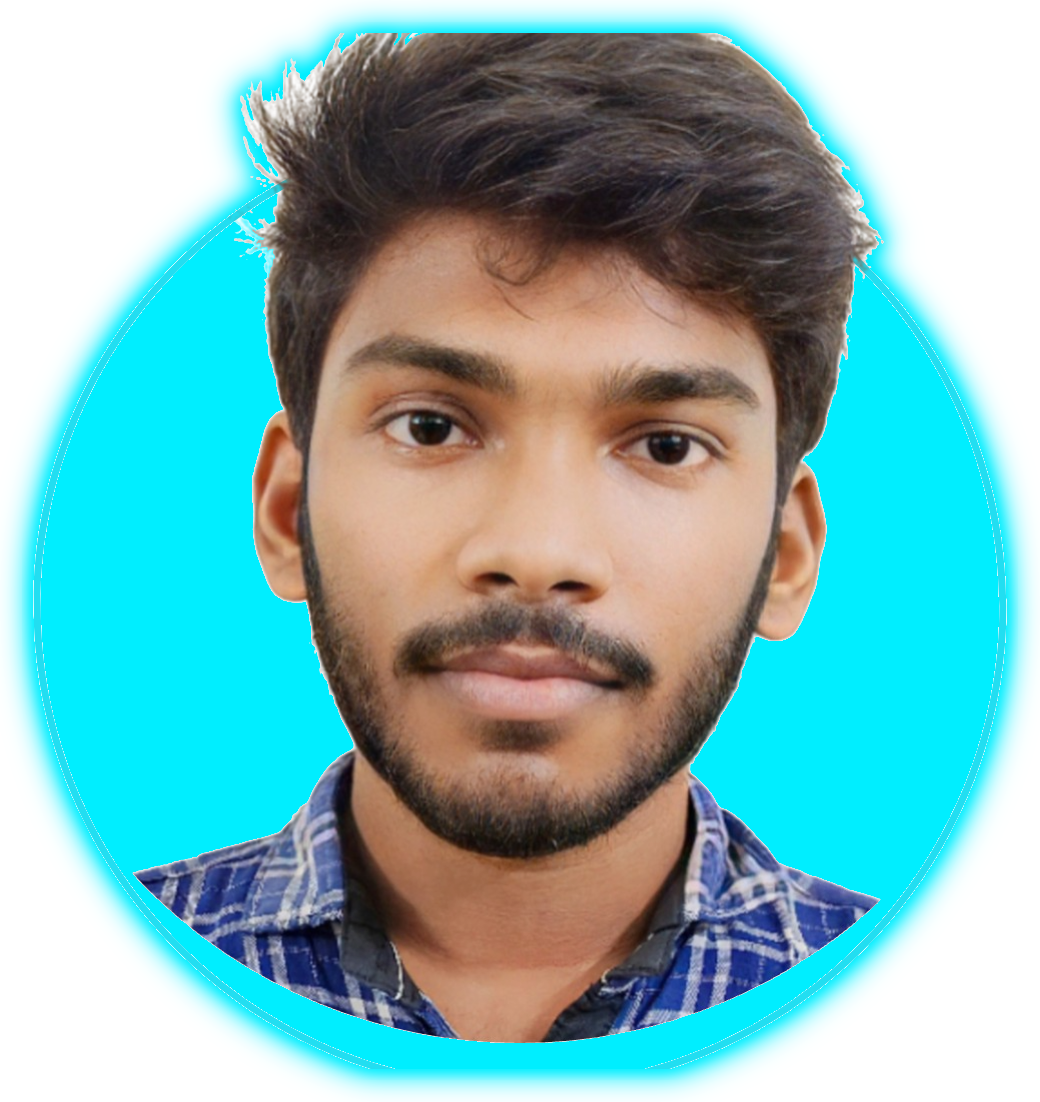
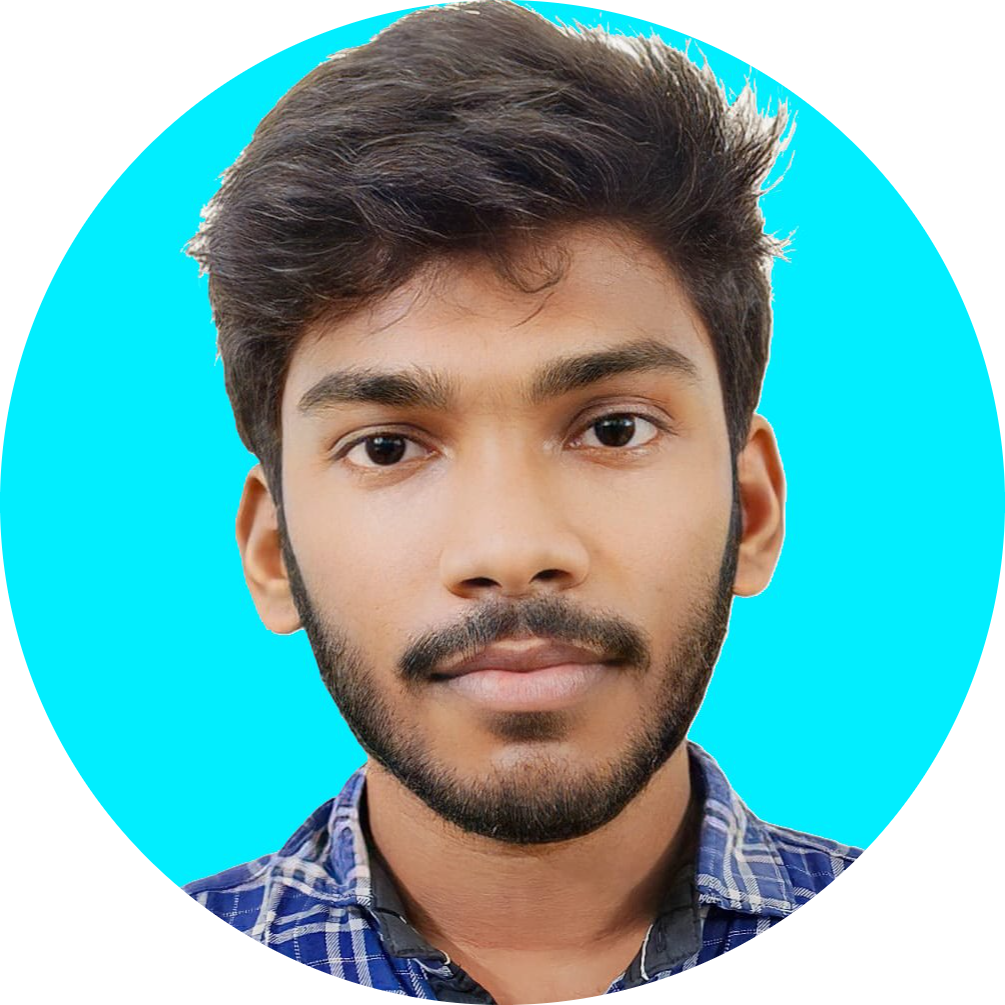
modified:   images/photo.png 	modified:   index.html modified:   javascript/script.js 	modified:   style.css

diff --git a/index.html b/index.html
@@ -2,182 +2,191 @@
 <html lang="en">
 
 <head>
-    <meta charset="UTF-8">
-    <meta name="viewport" content="width=device-width, initial-scale=1.0">
-    <title>Document</title>
-    <link rel="stylesheet" href="style.css">
-    <link href='https://unpkg.com/boxicons@2.1.4/css/boxicons.min.css' rel='stylesheet'>
+  <meta charset="UTF-8">
+  <meta name="viewport" content="width=device-width, initial-scale=1.0">
+  <title>Document</title>
+  <link rel="stylesheet" href="style.css">
+  <link href='https://unpkg.com/boxicons@2.1.4/css/boxicons.min.css' rel='stylesheet'>
 </head>
 
 <body>
+  <nav>
     <header class="header">
-        <a href="#" class="logo">Ganesh's Portfolio</a>
-        <i class='bx bx-menu' id="menu-icon"></i>
-        <nav class="navbar">
-            <a href="#home" class="active">Home</a>
-            <a href="#aboutme">About</a>
-            <a href="#skills">Skills</a>
-            <a href="#contact">Contact</a>
-        </nav>
+
+      <a href="#" class="logo">Ganesh's Portfolio</a>
+      <i class='bx bx-menu' id="menu-icon"></i>
+      <nav class="navbar">
+        <a href="#home" class="active">Home</a>
+        <a href="#aboutme">About</a>
+        <a href="#skills">Skills</a>
+        <a href="#contact">Contact</a>
+      </nav>
 
     </header>
+  </nav>
+  <section class="home" id="home">
+    <div id="particles-js"></div>
 
-    <section class="home" id="home">
-        <div id="particles-js"></div>
-    
-        <div class="content">
-        <h2>Hi There,<br/> I'm <span>Ganesh</span></h2>
-        <p>i am into <h1 class="typing-text"><span ></span></h1></p>
-        <a href="#aboutme" class="btn"><span>About Me</span>
-          <i class="fas fa-arrow-circle-down"></i>
-        </a>
-        <div class="socials">
-            <ul class="social-icons">
-              <li><a class="linkedin" aria-label="LinkedIn" href="https://www.linkedin.com/in/ganesh-kotikalapudi-b28606261/" target="_blank"><i class='bx bxl-linkedin' ></i></a></li> 
-              <li><a class="github" aria-label="GitHub" href="https://github.com/ganesh" target="_blank"><i class='bx bxl-github' ></i></a></li>
-              <li><a class="" aria-label="Twitter" href="https://www.facebook.com/badhraganesh.kotikalapudi" target="_blank"><i class='bx bxl-facebook' ></i></a></li>
-              
-              <li><a class="instagram" aria-label="Instagram" href="https://www.instagram.com/l0g_iin"><i class='bx bxl-instagram' ></i></a></li>
-             
-            </ul>
-          </div>
-        </div>
-    <div class="image">
-        <img draggable="false" class="tilt" src="./images/photo.png" alt="">
+    <div class="content">
+      <h2>Hi There,<br /> I'm <span>Ganesh</span></h2>
+      <p>i am into
+      <h1 class="typing-text"><span></span></h1>
+      </p>
+      <a href="#aboutme" class="btn"><span>About Me</span>
+        <i class="fas fa-arrow-circle-down"></i>
+      </a>
+      <div class="socials">
+        <ul class="social-icons">
+          <li><a class="linkedin" aria-label="LinkedIn"
+              href="https://www.linkedin.com/in/ganesh-kotikalapudi-b28606261/" target="_blank"><i
+                class='bx bxl-linkedin'></i></a></li>
+          <li><a class="github" aria-label="GitHub" href="https://github.com/ganesh" target="_blank"><i
+                class='bx bxl-github'></i></a></li>
+          <li><a class="" aria-label="Twitter" href="https://www.facebook.com/badhraganesh.kotikalapudi"
+              target="_blank"><i class='bx bxl-facebook'></i></a></li>
+
+          <li><a class="instagram" aria-label="Instagram" href="https://www.instagram.com/l0g_iin"><i
+                class='bx bxl-instagram'></i></a></li>
+
+        </ul>
+      </div>
     </div>
-    </section>
- 
+    <div id="image">
+      <img draggable="false" onclick=change() class="tilt" draggable="true" src="./images/photo.png" alt="">
+    </div>
+  </section>
 
 
-    <section class="aboutme" id="aboutme">
-        <div class="about-img"><img src="/images/aboutimg.png" alt=""></div>
-        <div class="about-content">
-            <h2 class="heading">About <span>Me</span> </h2>
 
-            <p>
-                I am a learning developer based in Andhra pradesh, India. I am an currently CSE undergraduate from SRM
-                institute of science and engineering and technology in chennai. I am very passionate about improving my
-                coding skills & developing applications & websites. I build WebApps and Websites using MERN Stack.
-                Working for myself to improve my skills. Love to build clones and useful websites.
-                <br>
+  <section class="aboutme" id="aboutme">
+    <div class="about-img"><img src="/images/aboutimg.png" alt=""></div>
+    <div class="about-content">
+      <h2 class="heading">About <span>Me</span> </h2>
 
-
-            </p>
-            <a href="" class="btn">Read more</a>
-        </div>
-
-    </section>
-
-    <section class="skills" id="skills">
-
-        <h2 class="heading"><i class='bx bx-laptop'></i>Skills & <span>Abilities</span></h2>
-
-        <div class="container">
-
-            <div class="box"> <img src="/images/c++.png" alt=""><span>C++</span></div>
-            <div class="box"> <img src="/images/python.png" alt=""><span>Python</span></div>
-            <div class="box"> <img src="/images/java.png" alt=""><span>java</span></div>
-            <div class="box"> <img src="/images/js.png" alt=""><span>java script</span></div>
-            <div class="box"> <img src="/images/css.png" alt=""><span>CSS</span></div>
-            <div class="box"> <img src="/images/html.png" alt=""><span>html</span></div>
-            <div class="box"> <img src="/images/mysql.png" alt=""><span>MySQL</span></div>
-            <div class="box"> <img src="/images/reactjs.png" alt=""><span>Reactjs</span></div>
-            <div class="box"> <img src="/images/bootstrap.png" alt=""><span>Bootstrap</span></div>
+      <p>
+        I am a learning developer based in Andhra pradesh, India. I am an currently CSE undergraduate from SRM
+        institute of science and engineering and technology in chennai. I am very passionate about improving my
+        coding skills & developing applications & websites. I build WebApps and Websites using MERN Stack.
+        Working for myself to improve my skills. Love to build clones and useful websites.
+        <br>
 
 
-        </div>
-    </section>
+      </p>
+      <a href="" class="btn">Read more</a>
+    </div>
 
-    <section class="education" id="education">
+  </section>
 
-        <h1 class="heading"><i class="fas fa-graduation-cap"></i> My <span>Education</span></h1>
+  <section class="skills" id="skills">
 
-        <p class="qoute">My Education and schooling.</p>
+    <h2 class="heading"><i class='bx bx-laptop'></i>Skills & <span>Abilities</span></h2>
 
-        <div class="box-container">
+    <div class="container">
 
-            <div class="box">
-                <div class="image">
-                    <img draggable="false" src="/images/SRM.png" alt="">
-                </div>
-                <div class="content">
-                    <h3> Bachelor of Technology</h3>
-                    <p>SRM institute of science and Technology</p>
-                    <h4>2021-2025 | Pursuing
-                        Current CGPA:9.63/10
-                    </h4>
-                </div>
-            </div>
+      <div class="box"> <img src="/images/c++.png" alt=""><span>C++</span></div>
+      <div class="box"> <img src="/images/python.png" alt=""><span>Python</span></div>
+      <div class="box"> <img src="/images/java.png" alt=""><span>java</span></div>
+      <div class="box"> <img src="/images/js.png" alt=""><span>java script</span></div>
+      <div class="box"> <img src="/images/css.png" alt=""><span>CSS</span></div>
+      <div class="box"> <img src="/images/html.png" alt=""><span>html</span></div>
+      <div class="box"> <img src="/images/mysql.png" alt=""><span>MySQL</span></div>
+      <div class="box"> <img src="/images/reactjs.png" alt=""><span>Reactjs</span></div>
+      <div class="box"> <img src="/images/bootstrap.png" alt=""><span>Bootstrap</span></div>
 
-            <div class="box">
-                <div class="image">
-                    <img draggable="false" src="/images/sasi.png" alt="">
-                </div>
-                <div class="content">
-                    <h3>Intermediate</h3>
-                    <p>SASI junior college</p>
-                    <h4>2019-2021| Completed
-                        MARKS:963/1000
-                    </h4>
-                </div>
-            </div>
 
-        </div>
-        <section class="contact" id="contact">
-  
-            <h2 class="heading"><i class="fas fa-headset"></i> Get in <span>Touch</span></h2>
-          
-            <div class="container">
-              <div class="content">
-                <div class="image-box">
-                  <img draggable="false" src="./images/contact.png" alt="">
-                </div>
-              <form id="contact-form">
-                
-                <div class="form-group">
-                  <div class="field">
-                    <input type="text" name="name" placeholder="Name" required>
-                    <i class='fas fa-user'></i>
-                  </div>
-                  <div class="field">
-                    <input type="text" name="email" placeholder="Email" required>
-                    <i class='fas fa-envelope'></i>
-                  </div>
-                  <div class="field">
-                    <input type="text" name="phone" placeholder="Phone">
-                    <i class='fas fa-phone-alt'></i>
-                  </div>
-                  <div class="message">
-                  <textarea placeholder="Message" name="message" required></textarea>
-                  <i class="fas fa-comment-dots"></i>
-                  </div>
-                  </div>
-                <div class="button-area">
-                  <button type="submit">
-                    Submit <i  class='bx bxs-paper-plane'></i></button>
-                </div>
-              </form>
-            </div>
-            </div>
-          </section>
-        <a href="#home" aria-label="ScrollTop" class="fas fa-angle-up" id="scroll-top"></a>
-    </section>
-    <!-- footer section starts -->
-<section class="footer">
+    </div>
+  </section>
+
+  <section class="education" id="education">
+
+    <h1 class="heading"><i class="fas fa-graduation-cap"></i> My <span>Education</span></h1>
+
+    <p class="qoute">My Education and schooling.</p>
 
     <div class="box-container">
-  
-        <div class="box">
-            <h3>Ganesh's Portfolio</h3>
-            <p>Thank you for visiting my personal portfolio website. Connect with me over socials. <br/> <br/>
+
+      <div class="box">
+        <div class="image">
+          <img draggable="false" src="/images/SRM.png" alt="">
         </div>
+        <div class="content">
+          <h3> Bachelor of Technology</h3>
+          <p>SRM institute of science and Technology</p>
+          <h4>2021-2025 | Pursuing
+            Current CGPA:9.63/10
+          </h4>
         </div>
-</section>
-    <script src="jquery-3.2.1.min.js"></script>
-    <script src="/javascript/particles.js"></script>
-    <script src="/javascript/app.js"></script>
-    <script src="/javascript/script.js"></script>
-  
+      </div>
+
+      <div class="box">
+        <div class="image">
+          <img draggable="false" src="/images/sasi.png" alt="">
+        </div>
+        <div class="content">
+          <h3>Intermediate</h3>
+          <p>SASI junior college</p>
+          <h4>2019-2021| Completed
+            MARKS:963/1000
+          </h4>
+        </div>
+      </div>
+
+    </div>
+    <section class="contact" id="contact">
+
+      <h2 class="heading"><i class="fas fa-headset"></i> Get in <span>Touch</span></h2>
+
+      <div class="container">
+        <div class="content">
+          <div class="image-box">
+            <img draggable="false" src="./images/contact.png" alt="">
+          </div>
+          <form id="contact-form">
+
+            <div class="form-group">
+              <div class="field">
+                <input type="text" name="name" placeholder="Name" required>
+                <i class='fas fa-user'></i>
+              </div>
+              <div class="field">
+                <input type="text" name="email" placeholder="Email" required>
+                <i class='fas fa-envelope'></i>
+              </div>
+              <div class="field">
+                <input type="text" name="phone" placeholder="Phone">
+                <i class='fas fa-phone-alt'></i>
+              </div>
+              <div class="message">
+                <textarea placeholder="Message" name="message" required></textarea>
+                <i class="fas fa-comment-dots"></i>
+              </div>
+            </div>
+            <div class="button-area">
+              <button type="submit">
+                Submit <i class='bx bxs-paper-plane'></i></button>
+            </div>
+          </form>
+        </div>
+      </div>
+    </section>
+    <a href="#home" aria-label="ScrollTop" class="fas fa-angle-up" id="scroll-top"></a>
+  </section>
+  <!-- footer section starts -->
+  <section class="footer">
+
+    <div class="box-container">
+
+      <div class="box">
+        <h3>Ganesh's Portfolio</h3>
+        <p>Thank you for visiting my personal portfolio website. Connect with me over socials. <br /> <br />
+      </div>
+    </div>
+  </section>
+  <script src="jquery-3.2.1.min.js"></script>
+  <script src="/javascript/particles.js"></script>
+  <script src="/javascript/app.js"></script>
+  <script src="/javascript/script.js"></script>
+
 
 </body>
 

diff --git a/style.css b/style.css
@@ -112,7 +112,7 @@ section {
   z-index: 1;
 }
 
-.home .image {
+.home #image {
   flex: 1 1 40rem;
   z-index: 1;
   margin-top: 2rem;
@@ -128,19 +128,18 @@ section {
 }
   
 
-.home .image img {
+.home #image img {
   width: 70%;
   margin-left: 6rem;
-  border-radius: 50%;
-  box-shadow: 0 2px 8px rgba(0, 0, 0, 0.3);
+ border-radius: 50%;
+ 
+  filter: drop-shadow(0 0 12px #0ef);
   cursor: pointer;
   position: relative;
   animation: float 4s ease infinite alternate;
 }
 
-.home .image img:hover {
-  box-shadow: 0 5px 15px rgba(0, 0, 0, 0.5);
-}
+
 
 .home .content h2 {
   font-size: 5rem;
